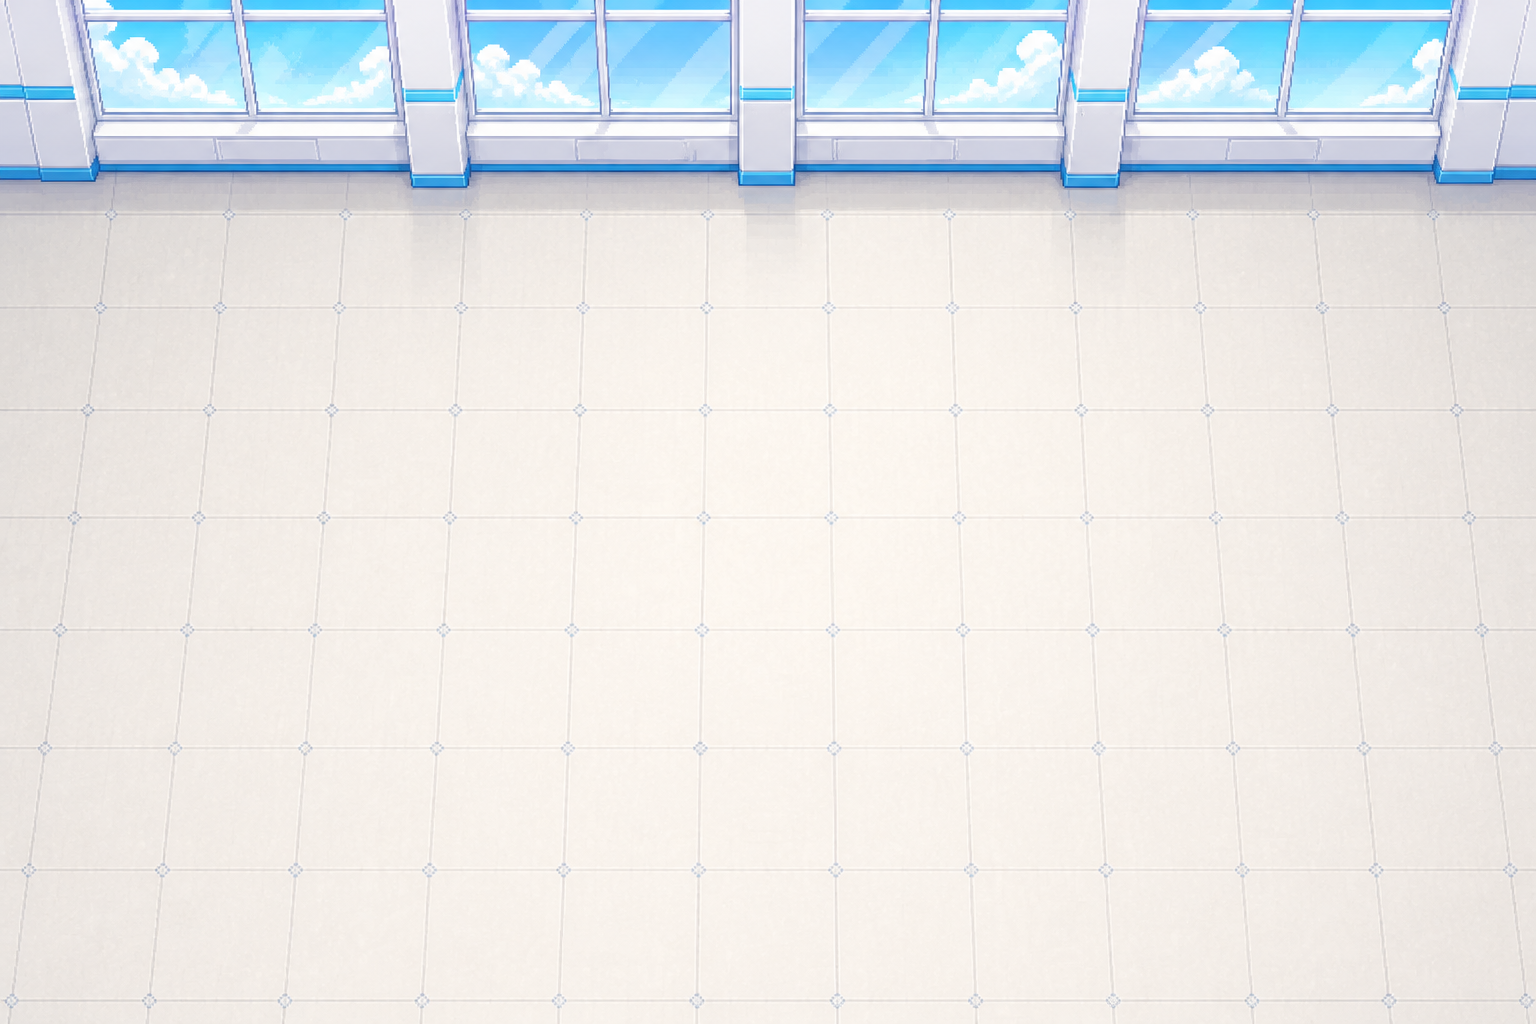
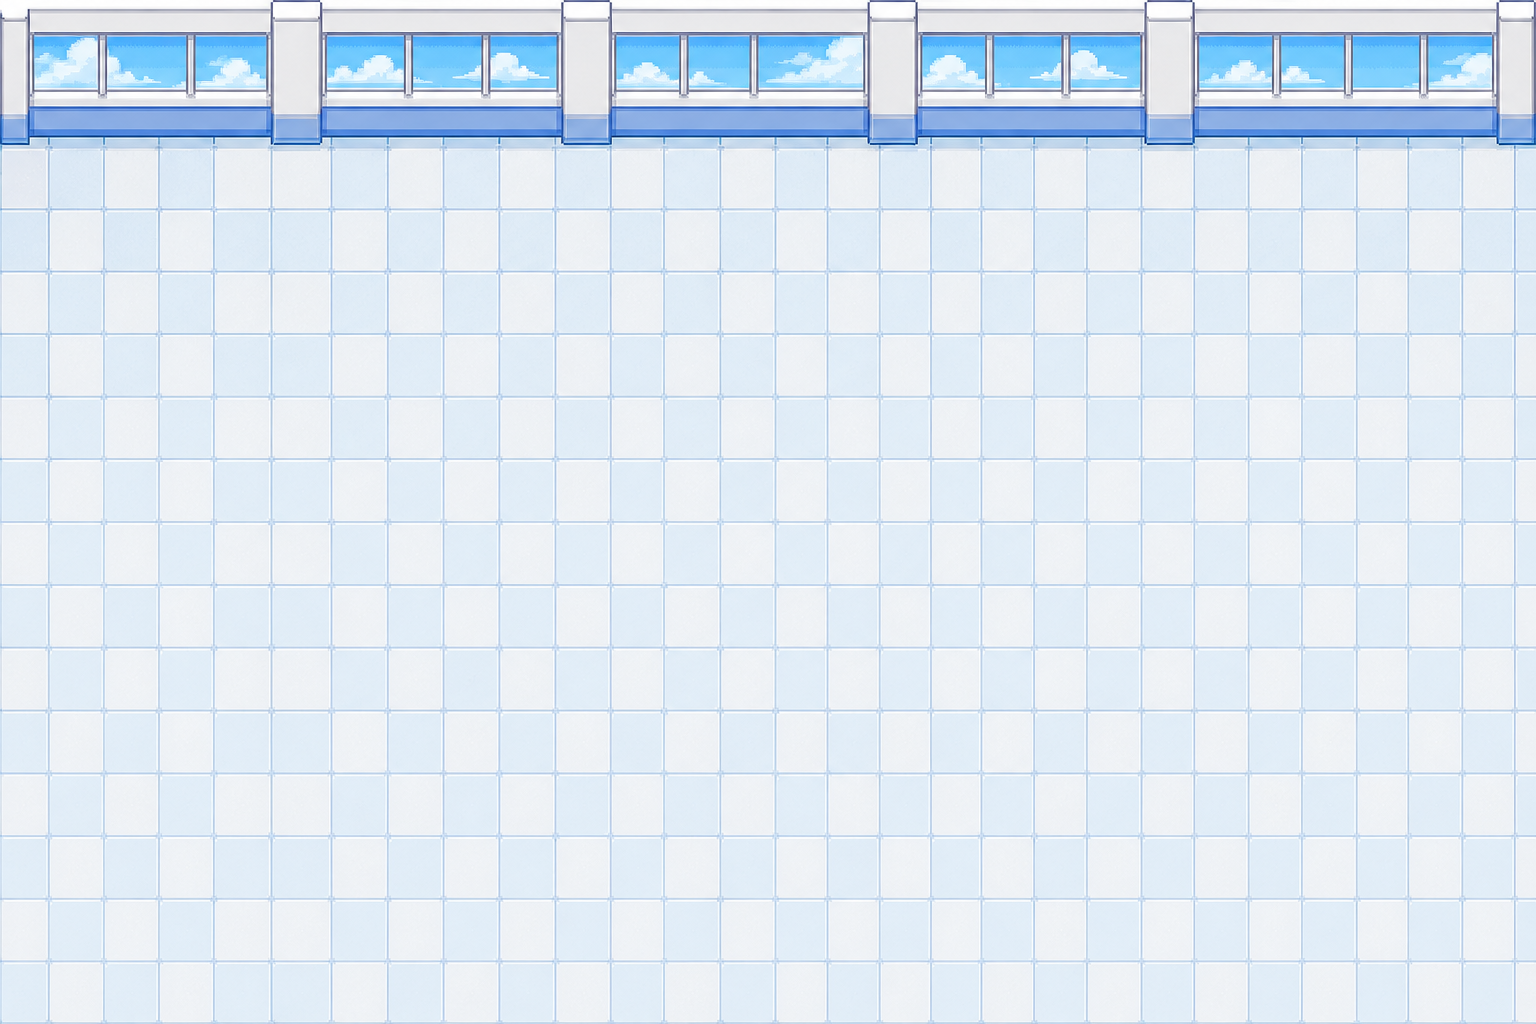
feat(arona-ui): 포켓몬/RPG쯔꾸르 게임뷰 — 탑다운 맵+가구 따로 배치(SCHALE)
거노: '포켓몬/RPG쯔꾸르 게임뷰처럼, 맵 뽑고 가구뽑고' = 통짜 씬 말고 맵·가구를
따로 뽑아 배치해 캐릭터가 돌아다니는 RPG. 통짜 SCHALE 이미지 폐기, 가구 배치
모델(ClassroomView+furniture)로 복귀.

- classroom-floor: codex 탑다운 RPG SCHALE 바닥(흰/하늘색 타일, 창문)
- furn-*: codex 탑다운 RPG 앵글 SCHALE 가구(책상·소파·커피·책장·화분) — 전처럼
  정면뷰가 아니라 맵과 같은 탑다운이라 시점 일치
- App: roomBg→classroom-floor, furniture 기본세트 복귀(SCHALE 이미지 baked 해제)

diff --git a/web/arona-ui/src/App.tsx b/web/arona-ui/src/App.tsx
@@ -4,7 +4,7 @@ import { AgentCard } from './components/AgentCard';
 import { AddAgentModal } from './components/AddAgentModal';
 import { ModePicker } from './components/ModePicker';
 import { ClassroomView } from './components/ClassroomView';
-import { LOUNGE_FURNITURE, STUDIO_FURNITURE, SCHALE_SEATS, SCHALE_CAFE } from './components/classroomSpace';
+import { LOUNGE_FURNITURE, STUDIO_FURNITURE } from './components/classroomSpace';
 import { CommandCenter } from './components/CommandCenter';
 import { StudentGrid } from './components/StudentGrid';
 import { Footer } from './components/Footer';
@@ -86,9 +86,8 @@ export function App() {
   // 일관, 어느 방이든 책상 안 뚫음). 워크스페이스별 가구 변형으로 분위기만 다르게.
   const FURNITURE_SETS = [LOUNGE_FURNITURE, STUDIO_FURNITURE];
   const wsIdx = activeWs ? workspaces.findIndex((w) => w.cwd === activeWs) : -1;
-  const roomBg = 'schale-classroom.png';
-  // 가구는 SCHALE 교실 이미지에 박혀 있으니 placed 가구 끔.
-  const roomFurniture = wsIdx >= 0 ? FURNITURE_SETS[wsIdx % FURNITURE_SETS.length] : [];
+  const roomBg = 'classroom-floor.png';
+  const roomFurniture = wsIdx >= 0 ? FURNITURE_SETS[wsIdx % FURNITURE_SETS.length] : undefined;
 
   // 재화 = claude 토큰 지표(선생님): 💎입력토큰 · 🪙비용$ (전 학생 합산).
   const totalInputTokens = sorted.reduce((s, a) => s + (a.tokensIn ?? 0), 0);
@@ -173,7 +172,7 @@ export function App() {
           {/* 교실 씬 or 카드 그리드 */}
           <div style={{ flex: 1, overflow: 'auto', padding: 'var(--cth-space-4)' }}>
             {view === 'classroom' ? (
-              <ClassroomView agents={shown} background={roomBg} furniture={roomFurniture} seats={wsIdx < 0 ? SCHALE_SEATS : undefined} cafe={wsIdx < 0 ? SCHALE_CAFE : undefined} onSelect={(id, title) => setPeek({ id, title })} />
+              <ClassroomView agents={shown} background={roomBg} furniture={roomFurniture} onSelect={(id, title) => setPeek({ id, title })} />
             ) : shown.length === 0 ? (
               <p style={{ color: 'var(--cth-ink-500)' }}>학생들을 기다리는 중… (board 폴링 · MCP)</p>
             ) : (
